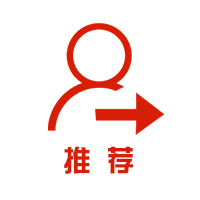
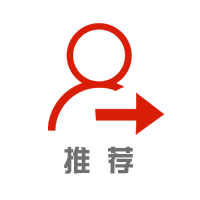
首页和我的客户列表布局样式修改

Changed region(s): [[0.3, 0.72, 0.45, 0.87], [0.54, 0.72, 0.69, 0.87]]

diff --git a/css/base.less b/css/base.less
@@ -78,11 +78,18 @@ label.error{
 }
 //推荐房源部分样式
 .recommend{
-    margin-top: 15px;
     .partTitle{
-        padding-left: 10px;
-        font-size: .26rem;
-        border-left: 5px solid #Eb7221;
+            padding-left: 10px;
+            font-size: .26rem;
+            text-align: center;
+            background: #eb7221;
+            color: #fff;
+            padding: .05rem;
+            width: 1.6rem;
+            height: .4rem;
+            border-radius: .3rem;
+            margin: 0 auto;
+            font-weight: bold;
     }
 }
 //房源列表部分样式
@@ -106,22 +113,13 @@ label.error{
             right: .1rem;
             bottom: .1rem;
             display: block;
-            width: 45px;
-            height: 40px;
+            width: .8rem;
             font-size: .2rem;
-            padding-top: 5px;
-            text-align: center;
-            border-radius: 50%;
-            background-color: #fff;
-            p{
-                font-size: .12rem;
-            }
         }
     }
     .roomTable{
         margin-top: .15rem;
-        font-size: .48rem;
-        width: 100%;
+        font-size: .4rem;
         tr{
             td{
                 text-align: left;
@@ -133,7 +131,7 @@ label.error{
     }
     .lips{
         span{
-            font-size: .14rem;
+            font-size: .12rem;
             display: inline-block;
             padding: 0 .03rem;
             border:1px solid #e6e6e6;
@@ -146,16 +144,19 @@ label.error{
 }
 //首页房源列表字体
 .houseName{
-    font-size: .32rem;
+    font-size: .4rem;
 }
 .allPrice{
     font-size: .26rem;
+    
 }
 .onePrice{
     font-size: .26rem;
+    color: #707070;
 }
 .streetText{
-    font-size: .26rem
+    font-size: .12rem;
+    color: #707070;
 }
 //新房的房源显示在售和待售
 .forTips{
@@ -214,7 +215,7 @@ label.error{
             padding-left: 5px;
             font-size: .24rem;
             background: url(../images/down.png) 97% center no-repeat;
-            background-size: 10px;
+            background-size: .4rem;
             overflow: hidden
          }
          .selectText{

diff --git a/css/base.css b/css/base.css
@@ -143,13 +143,18 @@ label.error {
   margin: 0;
   font-size: .3rem;
 }
-.recommend {
-  margin-top: 15px;
-}
 .recommend .partTitle {
   padding-left: 10px;
   font-size: .26rem;
-  border-left: 5px solid #Eb7221;
+  text-align: center;
+  background: #eb7221;
+  color: #fff;
+  padding: .05rem;
+  width: 1.6rem;
+  height: .4rem;
+  border-radius: .3rem;
+  margin: 0 auto;
+  font-weight: bold;
 }
 .roomListUl li {
   border-top: 1px solid #ccc;
@@ -169,21 +174,12 @@ label.error {
   right: .1rem;
   bottom: .1rem;
   display: block;
-  width: 45px;
-  height: 40px;
+  width: .8rem;
   font-size: .2rem;
-  padding-top: 5px;
-  text-align: center;
-  border-radius: 50%;
-  background-color: #fff;
-}
-.roomListUl .imgpart .recommendLink p {
-  font-size: .12rem;
 }
 .roomListUl .roomTable {
   margin-top: .15rem;
-  font-size: .48rem;
-  width: 100%;
+  font-size: .4rem;
 }
 .roomListUl .roomTable tr td {
   text-align: left;
@@ -192,7 +188,7 @@ label.error {
   padding-right: .2rem;
 }
 .roomListUl .lips span {
-  font-size: .14rem;
+  font-size: .12rem;
   display: inline-block;
   padding: 0 .03rem;
   border: 1px solid #e6e6e6;
@@ -201,16 +197,18 @@ label.error {
   margin: 0 3px;
 }
 .houseName {
-  font-size: .32rem;
+  font-size: .4rem;
 }
 .allPrice {
   font-size: .26rem;
 }
 .onePrice {
   font-size: .26rem;
+  color: #707070;
 }
 .streetText {
-  font-size: 0.26rem;
+  font-size: .12rem;
+  color: #707070;
 }
 .forTips {
   border: 1px solid #ccc;
@@ -269,7 +267,7 @@ label.error {
   padding-left: 5px;
   font-size: .24rem;
   background: url(../images/down.png) 97% center no-repeat;
-  background-size: 10px;
+  background-size: .4rem;
   overflow: hidden;
 }
 .bannerSearch .searchselect .selectText {

diff --git a/pages/login.html b/pages/login.html
@@ -78,10 +78,9 @@
                                 var data = JSON.stringify(result.data);
                                 localStorage.setItem("userinfo", data);
                                 window.location.href = 'my.html';
-                            } else
-                            {
-                                layui.use('layer', function() {
-                                    var layer = layui.layer;
+                            } else {
+                                layui.use('layer',  function()  {
+                                    var  layer  =  layui.layer;
                                     layer.msg(result.messages);
                                 });
                             }

diff --git a/index.html b/index.html
@@ -68,8 +68,7 @@
                                 <div class="imgpart">
                                     <img src="images/roomPic.jpg" width="100%">
                                     <a href="pages/recommend.html" class="recommendLink">
-                                        <img src="images/recommend.png" width="20">
-                                        <p>推荐</p>
+                                        <img src="images/indexRec.png" width="100%">
                                     </a>
                                 </div>
                                 <!--<table class="roomTable">

diff --git a/css/room.less b/css/room.less
@@ -37,6 +37,7 @@
         border-bottom: 1px solid #ccc;
         padding: .01rem 0;
         color: #ff0000;
+        margin: 0;
         img{
             width:0.5rem;
             display: inline-block;
@@ -48,9 +49,7 @@
         }
     }
     .pricePart{
-        margin-top: 10px;
         border-bottom: 1px solid #ccc;
-        padding-bottom: 10px;
         padding-left:0;
         font-size: .2rem;
         li{

diff --git a/pages/myCustomer.html b/pages/myCustomer.html
@@ -117,6 +117,7 @@
     <script type="text/javascript" src="../js/jquery-1.7.2.min.js"></script>
     <script type="text/javascript" src="../js/layui/layui.js"></script>
     <script type="text/javascript" src="../js/common.js"></script>
+
     <!-- 嵌套数据js -->
     <script type="text/javascript" src="../js/pages/checkToken.js"></script>
     <script type="text/javascript" src="../js/pages/client.js"></script>

diff --git a/css/room.css b/css/room.css
@@ -33,6 +33,7 @@
   border-bottom: 1px solid #ccc;
   padding: .01rem 0;
   color: #ff0000;
+  margin: 0;
 }
 .msgPart .partTitle img {
   width: 0.5rem;
@@ -44,9 +45,7 @@
   vertical-align: middle;
 }
 .msgPart .pricePart {
-  margin-top: 10px;
   border-bottom: 1px solid #ccc;
-  padding-bottom: 10px;
   padding-left: 0;
   font-size: .2rem;
 }

diff --git a/js/pages/client.js b/js/pages/client.js
@@ -38,7 +38,7 @@ var vm = new Vue({
         //点击修改级别
         clientLevelClick: function(id) {
             this.edit_params.uuid = id;
-            $(".levePop").show();
+            $(".levePop").toggle();
         },
         //点击修改客户状态
         clientStatusClick: function(id) {

diff --git a/css/index.less b/css/index.less
@@ -16,8 +16,9 @@
                 width: 1rem;
             }
             p{
-                padding-top: 10px;
                 font-size: .28rem;
+                color: #eb7721;
+                font-weight: bold;
             }
         }
     }

diff --git a/css/other.less b/css/other.less
@@ -14,7 +14,7 @@
         td:first-child{
             padding-right: 5px;
             text-align: right;
-            width: 28%;
+            width: 20%;
         }
     }
     .isShow{

diff --git a/css/other.css b/css/other.css
@@ -13,7 +13,7 @@
 .formTable tr td:first-child {
   padding-right: 5px;
   text-align: right;
-  width: 28%;
+  width: 20%;
 }
 .formTable .isShow {
   display: none;

diff --git a/css/index.css b/css/index.css
@@ -16,6 +16,7 @@
   width: 1rem;
 }
 .nav li a p {
-  padding-top: 10px;
   font-size: .28rem;
+  color: #eb7721;
+  font-weight: bold;
 }
